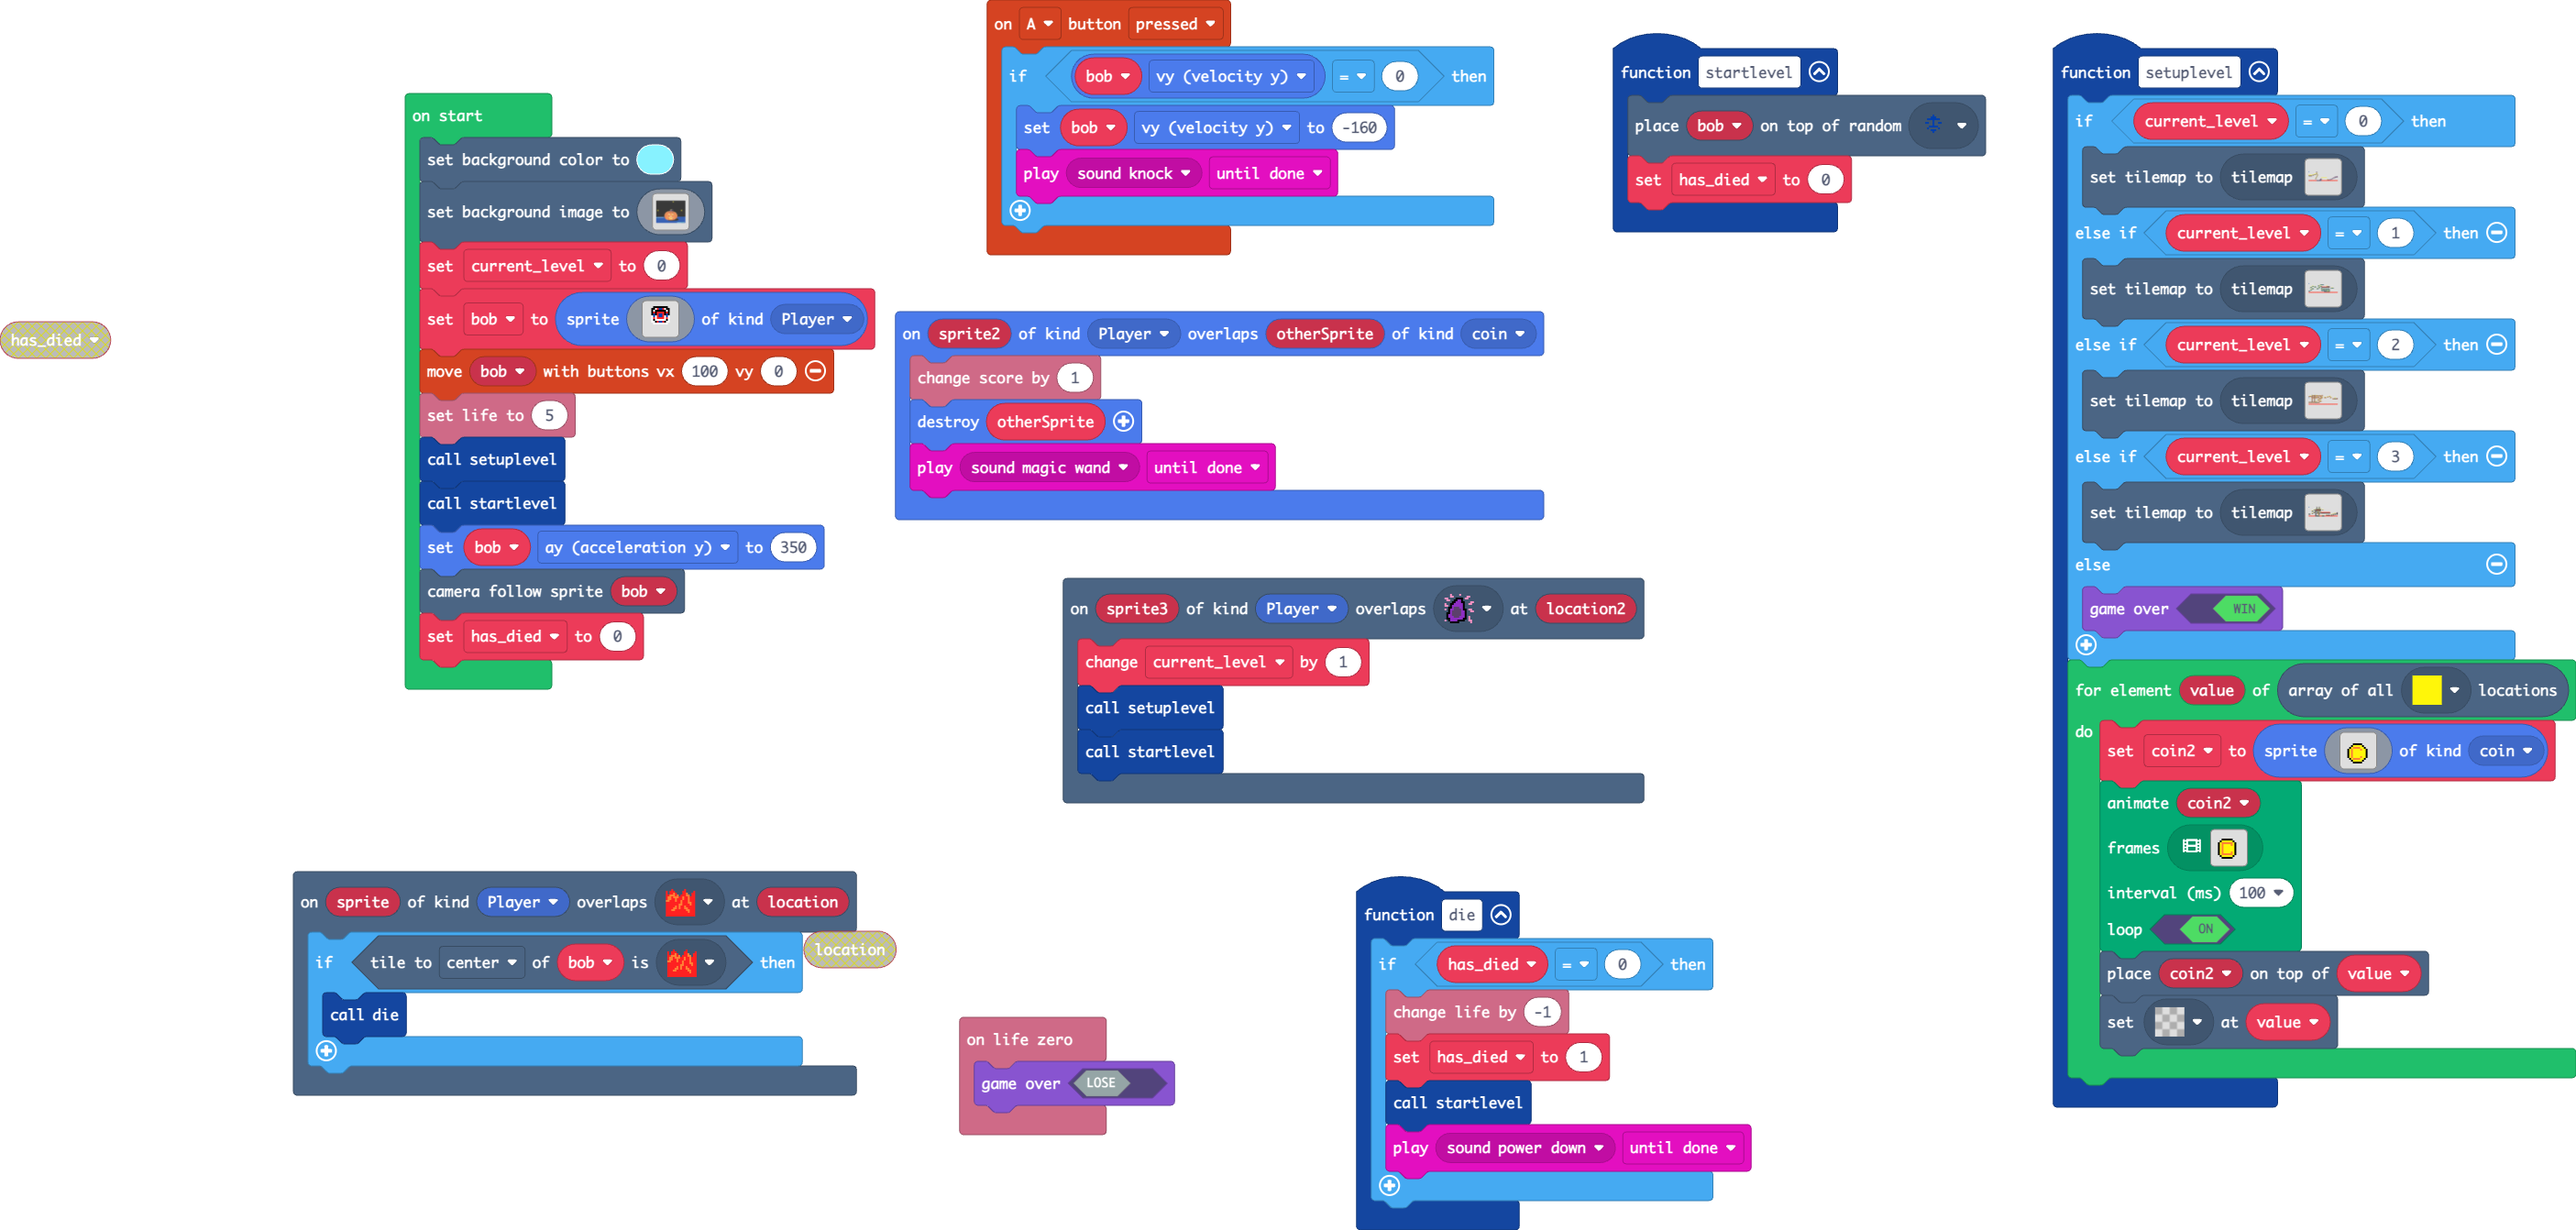
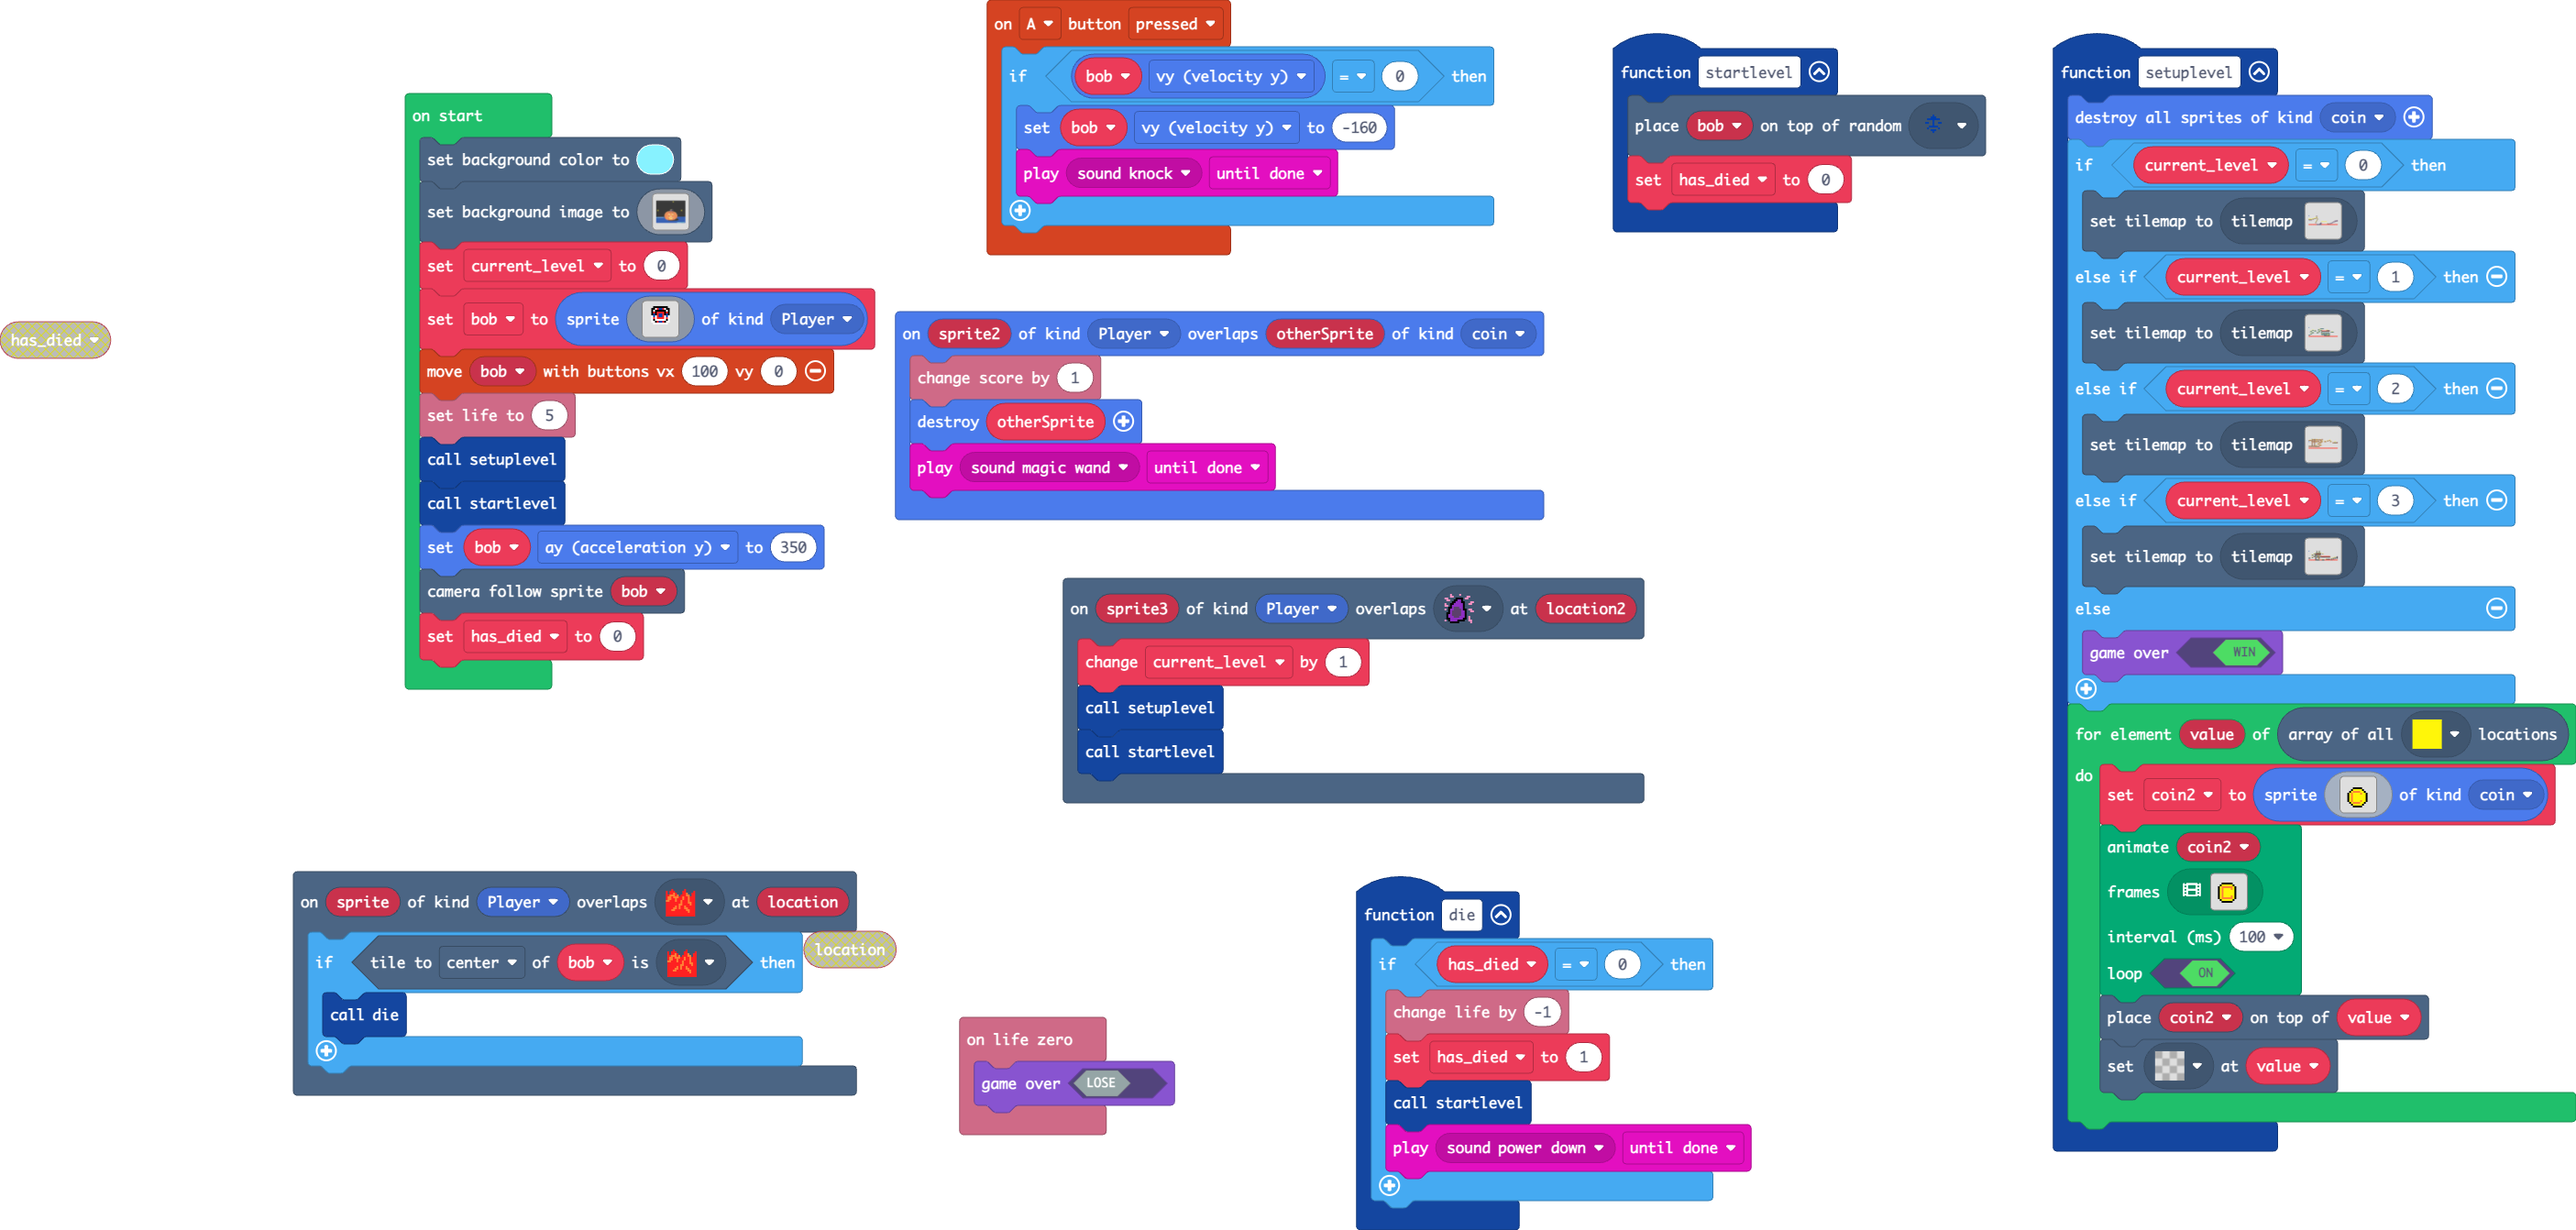
fix coin clearing bug

Changed region(s): [[0.774, 0.0611, 1.0, 0.9471]]

diff --git a/main.ts b/main.ts
@@ -33,6 +33,7 @@ sprites.onOverlap(SpriteKind.Player, SpriteKind.coin, function (sprite2, otherSp
     music.play(music.melodyPlayable(music.magicWand), music.PlaybackMode.UntilDone)
 })
 function setuplevel () {
+    sprites.destroyAllSpritesOfKind(SpriteKind.coin)
     if (current_level == 0) {
         tiles.setCurrentTilemap(tilemap`level1`)
     } else if (current_level == 1) {
